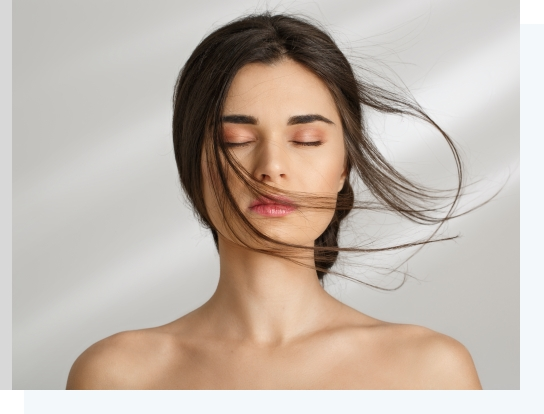
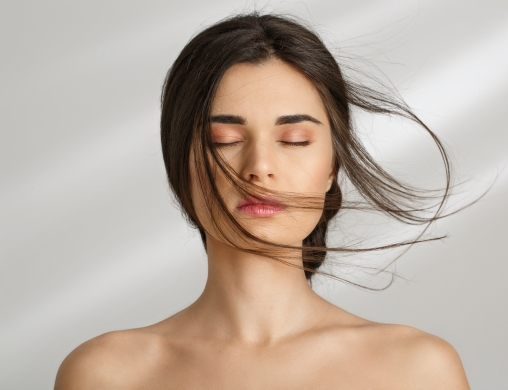
edit product

diff --git a/resources/assets/styles/components/basic-color.scss b/resources/assets/styles/components/basic-color.scss
@@ -11,7 +11,7 @@
   &__img {
     display: flex;
     margin-left: -88px;
-    max-height: 420px;
+    height: 420px;
     max-width: 520px;
     width: 100%;
     margin-top: 50px;
@@ -19,6 +19,7 @@
     @media (max-width: 575px) {
       margin-left: -33px;
       max-width: 360px;
+      height: 207px;
     }
     img {
       width: 100%;
